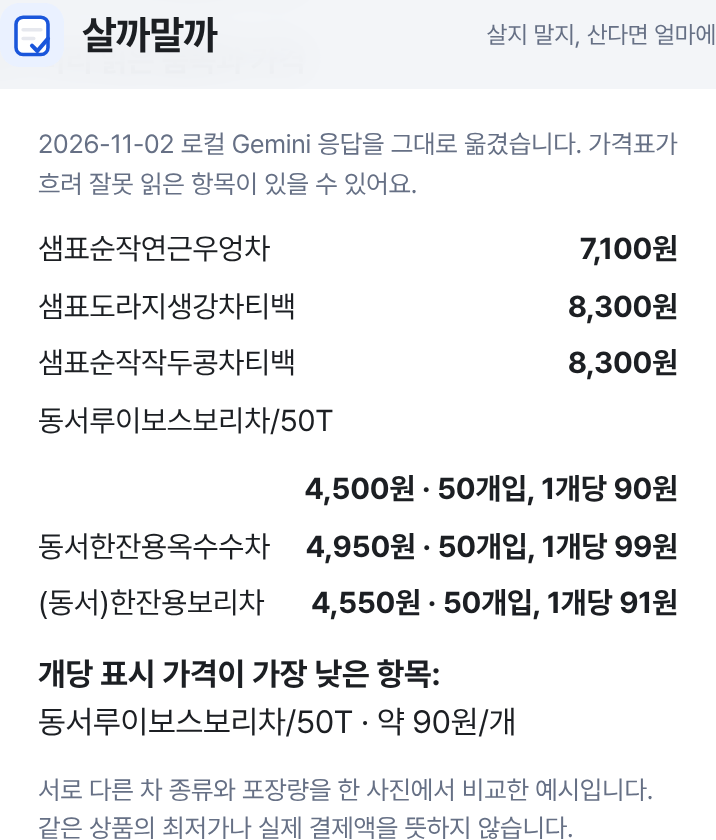
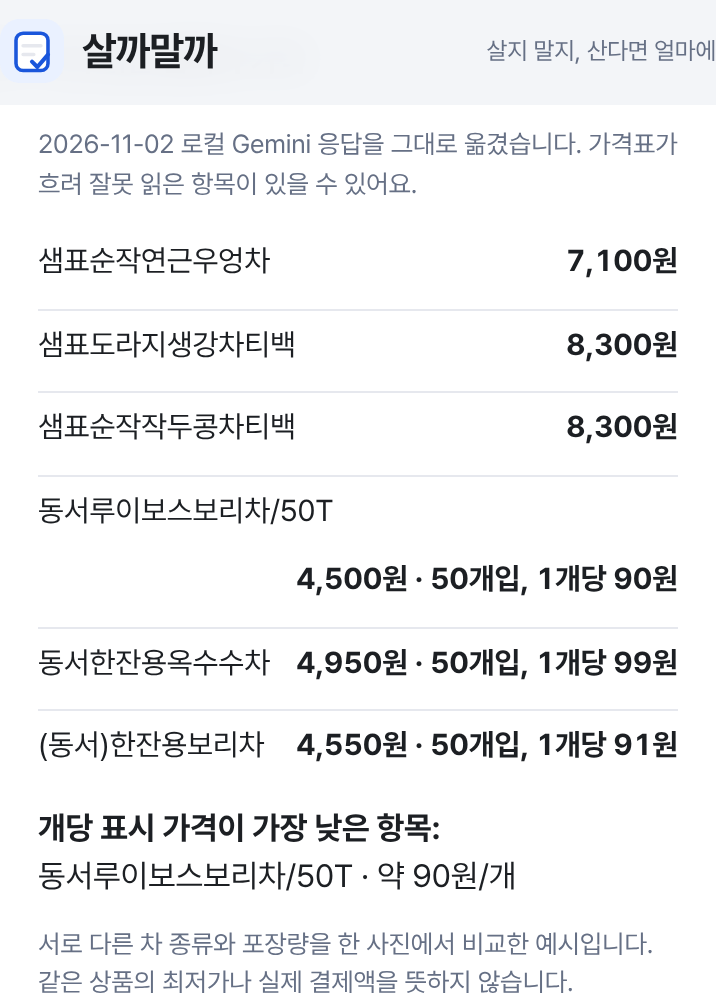
feat: two-column compare inputs, highlighted verdict, clearer item cards
Second design pass; features and copy unchanged.

- Price-compare A/B inputs sit two per row on phones (discount page about
  500px shorter); A and B get blue/orange markers
- Comparison result cards get an accent border and the verdict line a
  tinted block so the answer stands out
- Summary number lists get row dividers and bold tabular numbers
- Item cards: larger price, divider above the decision buttons, compare
  links as chips, calendar buttons one step smaller
- PRD 0.88, TODO 37-6, README photo-demo screens recaptured

Checks: npm test 1994/1994, lint, tsc -b, eval tsc, TODO check

Claude-Session: https://claude.ai/code/session_01S73EWn5NmGABmba2rb4uky

diff --git a/src/index.css b/src/index.css
@@ -1576,3 +1576,167 @@ details[aria-label='자잘한 지출'] {
     scroll-behavior: auto !important;
   }
 }
+
+/* ───────────────────────────────────────────────────────────────
+   2026-11-02 디자인 개선 2차: 입력을 짧게, 결론을 먼저 눈에 띄게
+   ─────────────────────────────────────────────────────────────── */
+
+/* 가격 비교 A·B 입력: 휴대폰에서도 칸을 두 줄로 나란히 놓아 스크롤을 줄인다.
+   제목·안내 문장·사진 버튼처럼 칸이 아닌 것은 한 줄을 다 쓴다 */
+.ab-grid > fieldset.card,
+.ab-grid > form.card {
+  display: grid;
+  grid-template-columns: repeat(2, minmax(0, 1fr));
+  column-gap: 10px;
+  row-gap: 12px;
+  align-items: start;
+}
+
+.ab-grid > fieldset.card > *,
+.ab-grid > form.card > * {
+  grid-column: 1 / -1;
+  min-width: 0;
+}
+
+.ab-grid > fieldset.card > .field,
+.ab-grid > form.card > .field {
+  grid-column: auto;
+}
+
+.ab-grid > fieldset.card > legend {
+  margin-bottom: 0;
+}
+
+.ab-grid .field-hint,
+.ab-grid .field-error {
+  font-size: 12px;
+  line-height: 1.4;
+}
+
+.ab-grid .field-label {
+  font-size: 13px;
+}
+
+/* A안·B안 제목에 작은 표식을 달아 두 카드를 한눈에 구분한다 */
+.ab-grid > fieldset.card > legend.card-title::before,
+.ab-grid > form.card > .card-title:first-child::before {
+  content: '';
+  display: inline-block;
+  width: 8px;
+  height: 8px;
+  margin-right: 8px;
+  border-radius: 999px;
+  background: var(--accent);
+  vertical-align: middle;
+}
+
+.ab-grid > fieldset.card:nth-child(2) > legend.card-title::before,
+.ab-grid > form.card:nth-child(2) > .card-title:first-child::before {
+  background: #f79009;
+}
+
+/* 비교 결과: 결론 한 줄을 강조 바탕의 큰 글씨로. 카드 자체도 강조색 테두리 */
+section.card[aria-label$='비교 결과'] {
+  border: 2px solid var(--accent);
+  box-shadow: var(--shadow-lift);
+}
+
+section.card[aria-label$='비교 결과'] > .card-title {
+  color: var(--accent-ink);
+  font-size: 14px;
+  letter-spacing: 0.02em;
+}
+
+section.card[aria-label$='비교 결과'] > .price-lg {
+  margin: 4px -4px;
+  padding: 14px 16px;
+  border-radius: var(--radius-sm);
+  background: var(--accent-soft);
+  color: var(--accent-ink);
+  font-size: 22px;
+  line-height: 1.35;
+}
+
+/* '이럴 때 써요' 예시: 결론을 말풍선처럼 */
+.example-intro .intro-conclusion {
+  padding: 10px 12px;
+  border-radius: var(--radius-sm);
+  background: var(--accent-soft);
+  font-size: 15px;
+}
+
+.example-intro .intro-side {
+  background: var(--surface-2);
+  border-color: var(--line);
+}
+
+/* 요약 숫자 목록: 이름은 회색, 숫자는 크고 진하게, 줄 사이에 옅은 선 */
+.result-list li {
+  align-items: baseline;
+  padding: 6px 0;
+}
+
+.result-list li + li {
+  border-top: 1px solid var(--line);
+}
+
+.result-list li > :last-child {
+  font-variant-numeric: tabular-nums;
+  font-weight: 700;
+}
+
+/* 물건 카드: 가격을 크게, 결정 영역은 선으로 나눠 '정하는 곳'이 보이게 */
+article.card > .price {
+  font-size: 24px;
+  letter-spacing: -0.02em;
+  margin-top: -4px;
+}
+
+article.card > p.field-label {
+  margin-top: 6px;
+  padding-top: 16px;
+  border-top: 1px solid var(--line);
+}
+
+/* 비교해 볼 곳 링크를 작은 칩으로 */
+.link-list a {
+  display: inline-flex;
+  align-items: center;
+  min-height: 36px;
+  padding: 0 12px;
+  border-radius: 999px;
+  background: var(--surface-2);
+  border: 1px solid var(--line);
+  color: var(--ink-2);
+  font-size: 14px;
+  font-weight: 600;
+  text-decoration: none;
+}
+
+.link-list a:hover {
+  border-color: var(--accent);
+  color: var(--accent);
+}
+
+/* 캘린더 넣기 같은 보조 버튼은 한 단계 작게 */
+article.card [role='group'] .btn-row .btn {
+  min-height: 42px;
+  font-size: 14px;
+}
+
+/* 수정·삭제 같은 글자 버튼은 카드 맨 아래 한 줄에 모은다 */
+.card-actions {
+  margin-top: 0;
+  justify-content: flex-end;
+}
+
+.card-actions .link-btn {
+  text-decoration: none;
+}
+
+/* '오늘의 고민' 상자와 체크리스트: 바탕을 깔아 카드 본문과 구분 */
+.gomin-note {
+  background: var(--surface-2);
+  border-color: var(--line);
+  border-radius: var(--radius-sm);
+}

diff --git a/PRD.md b/PRD.md
@@ -1,9 +1,9 @@
 # 살까말까 PRD
 
-현재 개정: **0.87** · 하단 메뉴·분할 하위 탭·가계부 바로가기 등 배치와 모양 개선, 기능 변경 없음 (2026-11-02) · 0.86 · 문서 정정만: 공개 사이트의 AI 표시 문장을 F83에 맞추고 화면 전후 사진을 같은 조건으로 다시 찍음, 기능 변경 없음 (2026-11-02) · 0.85 · 가계부 달력 우선 배치와 저장되지 않는 예시, 공개 사진 시연 (2026-11-02)
+현재 개정: **0.88** · 가격 비교 입력 2열·결과 강조·물건 카드 구역 구분, 기능 변경 없음 (2026-11-02) · 0.87 · 하단 메뉴·분할 하위 탭·가계부 바로가기 등 배치와 모양 개선, 기능 변경 없음 (2026-11-02) · 0.86 · 문서 정정만: 공개 사이트의 AI 표시 문장을 F83에 맞추고 화면 전후 사진을 같은 조건으로 다시 찍음, 기능 변경 없음 (2026-11-02) · 0.85 · 가계부 달력 우선 배치와 저장되지 않는 예시, 공개 사진 시연 (2026-11-02)
 
 작성일: 2026-10-11  
-버전: 0.87 · 1장 디자인 방향에 하단 메뉴·분할 하위 탭·가계부 바로가기와 카드·입력 모양을 추가, 기능·문구 변경 없음(2026-11-02 제작자 요청) · 0.86 · 문서 정정만: 4장의 공개 사이트 AI 문장을 F83의 저장된 예시와 맞추고 화면 전후 사진의 촬영 조건을 적음, 기능 변경 없음(2026-11-02) · 0.85 · 가계부 달력 우선 배치와 저장되지 않는 예시, 공개 사진 시연(2026-11-02) · 0.83 · 고정비·모으기 화면 순서와 기본 접힘, 지원 제도 안내 및 발표 전후 비교를 보강(2026-11-02 제작자 요청) · 0.82 · 1차 이후 비AI 기능을 분야별로 대조하고 AI 재검증 기록을 연결(2026-11-02 제작자 요청) · 0.81 · 1차 이후 추가·수정 요구사항 표시와 화면 전후 비교(2026-11-02 제작자 요청) · 0.80 · 가격 비교·사진 첫 화면과 장보기·사기 전 입력 동선 보강(F31·F49·F75·F76·F79·F81, AC195~AC202; 2026-11-02 제작자 UX 요청) · 0.78 · 9장 자동 테스트 수를 AC01~AC194·1983개로 정정(2026-11-02, 28단계 보강 뒤) · 0.77 · 자잘한 지출에서 한 주 시도 선택·저장·완료 보강(F78, AC192~AC194; 2026-11-02 최종 점검) · 0.76 · 9장 자동 테스트 수를 AC01~AC191·1979개로 정정(2026-11-02, 25~27단계 구현 뒤) · 0.75 · 정기배송 결제일과 7일 비교 기간의 화면 문구를 명확히 함(2026-11-02 구현 뒤 점검) · 0.74 · 이번 주 집밥·정기배송 중복·작은 지출 시도·사기 전 요약·결제 전 확인·상황별 시작(F76~F81, AC180~AC191; 2026-11-02 제작자 “전부다 수행해보자”) · 0.73 · 9장 자동 테스트 수 정정: AC01~AC171·1952개 → AC01~AC179·1965개(2026-11-02, 결제 달력·장보기 초안 구현 뒤) · 0.72 · 30일 결제 달력·장보기 초안(F74~F75, AC172~AC179; 2026-11-02 제작자 "두개다 ㅅ", 세부는 9장 확인 전) · 0.71 · 9장 자동 테스트 수 정정: AC01~AC162·1938개 → AC01~AC171·1952개(2026-11-02, 사용 흐름 개선 구현 뒤) · 0.70 · F73 빠른 담기에 맞춰 첫 화면 설명을 짧게 고침(AC79, 2026-11-02 제작자 입력 부담 피드백) · 0.69 · F73 빠른 담기에서 F31 사진 초안의 이유 필수 안내와 AC54 기대를 선택 입력에 맞춤(2026-11-02, 23-4 구현 중) · 0.68 · 오늘 확인할 것·빠른 물건 담기(F72~F73, F01·F24·F30 보강, AC163~AC171; 2026-11-02 제작자 추가 기능 방향 동의, 세부는 9장 확인 전) · 0.67 · 9장 자동 테스트 수 정정: AC01~AC150·1917개 → AC01~AC162·1938개(2026-11-02, 절약·저축 4단계와 백업 화면 시험 뒤) · 0.66 · 1장 디자인 방향에 제작자 화면 피드백과 공통 그림·접힘 표시 반영(2026-11-02) · 0.65 · F71 친구 정산 화면·오류 문장 명시(2026-11-02, 4단계 Task 5, 9장 제작자 확인 대기) · 0.64 · F70 포인트·쿠폰 입력·오류 문장 명시(2026-11-02, 4단계 Task 4, 9장 제작자 확인 대기) · 0.63 · F69 카드 실적 입력·오류 문장과 해당 월 범위 명시(2026-11-02, 4단계 Task 3, 9장 제작자 확인 대기) · 0.62 · F68 공식 안내와 저장 상태의 화면 문장을 명시(2026-11-02, 4단계 Task 2, 9장 제작자 확인 대기) · 0.61 · 절약·저축 4단계 받을 수 있는 돈(F68~F71·F20 보강, AC151~AC162; 2026-11-02 설계 P4·제작자 요청, 새 결정은 9장 제작자 확인 전) · 0.60 · 9장 자동 테스트 수 정정: AC01~AC132·1880개 → AC01~AC150·1917개(2026-11-02, 절약·저축 3단계와 담기 화면 개선 뒤) · 0.59 · 담기 폼 접기·쓰는 곳 후보 펼치기(F24·F45·F51, AC149~AC150; 2026-11-02 제작자 화면 요청) · 0.58 · 0.57 버전 줄의 출처 문장을 9장 결정 목록 참조로 바로잡음(2026-11-01) · 0.57 · F66·F67 모으기 별도 금액 안내 문장 명시(2026-11-01, 3단계 Task 7 준비, 9장 제작자 확인 대기) · 0.56 · 절약·저축 3단계 사기 전·산 뒤(F61~F67, F20 보강, AC133~AC148; 2026-11-01 제작자 요청·설계 P3, 새 결정은 9장 제작자 확인 전) · 0.55 · 9장 자동 테스트 수 정정: AC01~AC116·1833개 → AC01~AC132·1880개(2026-11-01, 절약·저축 2단계 구현·전체 리뷰 뒤) · 0.54 · F60 배달 비교 화면 문장·최소 주문 미달 때 무료배달 비교 숨김 명시(2026-11-01, 2단계 Task 8, Claude 결정·제작자 확인 전) · 0.53 · F59 자잘한 지출 화면·저장 안내 문장 명시(2026-11-01, 2단계 Task 7 준비, Claude 결정·제작자 확인 전) · 0.52 · F58 있어서 안 산 성공 안내와 모으기 설명 명시(2026-11-01, 2단계 Task 6 준비, Claude 결정·제작자 확인 전) · 0.51 · F57 모으기의 대체 금액 문장과 빈 상태 기준 명시(2026-11-01, 2단계 Task 5 준비, Claude 결정·제작자 확인 전) · 0.50 · F54 화면·저장 안내 문장 명시(2026-11-01, 2단계 Task 2 준비, Claude 결정·제작자 확인 전) · 0.49 · 절약·저축 P2 집에 있는 것·자잘한 지출(F54~F60, F20 보강, AC117~AC132; 2026-11-01 제작자 요청과 설계 P2, 새 결정은 9장 제작자 확인 전) · 0.48 · 9장 최종 완성 기준 자동 테스트 수 정정: AC01~AC99·1741개 → AC01~AC116·1833개(2026-11-01, 절약·저축 1b 구현 뒤 전체 테스트) · 0.47 · F52 통신 비교 링크에서 스마트초이스를 제외함(2026-11-01, 20초 재확인에도 이 환경에서 접속하지 못함) · 0.46 · 절약·저축 1b: 요금 바뀜 기록(F50, 내가 낮춘 요금은 모으기의 줄어든 고정비에)·같은 곳에 쓰는 구독·멤버십(F51)·통신 약정과 요금 비교 링크(F52)·수도·가스·전기 요금(F53, 새 키 `buyornot.bills.v1`)·정기배송 주마다와 고정비 저장 안내 이름(F45 보강)·무료 체험 끝나기 전날 캘린더(F46 보강)·해지한 날과 요금 바뀐 날(F47 보강)·백업 v2에 공과금(F20 보강), AC100~AC116, AC84 기대 문장(2026-11-01, 설계 문서 P1b와 총괄 판정 R45·R46·R47을 따름. 새 동작은 모두 9장 '절약·저축 1b에서 정한 것'에 제작자 확인 전으로 있음) · 0.45 · 9장 최종 완성 기준의 자동 테스트 수 정정: AC01~AC80·1551개 → AC01~AC99·1741개, 9장 정하지 못한 것에 고정비 종류를 바꿀 때의 안내 질문 한 줄(2026-11-01, 절약·저축 1a 최종 검토 뒤) · 0.44 · 절약·저축 1a: 고정비 정리함(F45, 구독 탭을 넓힘)·무료 체험 끝나는 날(F46)·해지했어요(F47)·모으기(F48, 줄어든 고정비·참은 구매·옮긴 돈을 따로, 저축 목표)·주요 메뉴 다섯 개(F49)·백업 v2(F20 보강), AC81~AC99(2026-11-01, 설계 문서·GPT 53번 상담·빌더 점검 뒤 총괄 판정을 따름. 새 동작은 모두 9장 '절약·저축 1a에서 정한 것'에 제작자 확인 전으로 있음) · 0.43 · F44 캡처 크게 보기(R29-N1) 이유에 10/31 정정을 덧붙임: 근거로 적은 평가 A H1은 남아 있던 모의 응답이었다(2026-10-31, 평가 C) · 0.42 · F24 완료 기준에 AC80 연결(2026-10-31, 개발 2회차 최종 재검토) · 0.41 · 9장 최종 완성 기준의 자동 테스트 수 정정: AC01~AC79·1544개 → AC01~AC80·1551개(2026-10-31, 개발 2회차 전체 리뷰 뒤) · 0.40 · 담은 물건을 바로 결정하거나 지우면 담은 직후 안내와 '방금 담았어요.'도 사라짐(F24, 판정 R43, AC80, 2026-10-31 개발 2회차 전체 리뷰, Claude 결정·제작자 확인 전) · 0.39 · 9장 최종 완성 기준의 자동 테스트 수 정정: AC01~AC68·1465개 → AC01~AC79·1544개(2026-10-31, 평가 B P10, 판정 R38) · 0.38 · 평가 2회차(평가 B) 개선: Gemini가 429를 주면 `429 upstream_limited`와 새 실패 문구, 키가 없거나 비면 Gemini를 부르지 않고 `503 disabled`(10장 AI 공통·F43, 판정 R38-P6), F32 확인 상자 첫 줄 'AI가 읽은 내용'과 F32·F44 확인 상자 첫 줄을 상자 설명으로(R38-I8·R38-P9), 구매함으로 옮긴 직후 회고 안내 한 줄(F18, R38-N3), 빈 목록일 때 서비스 설명 문장을 담기 폼 위로(F24, R38-I3), AC60 기대값, AC75~AC79(2026-10-31, 평가 B, GPT 51번, Claude 결정, 제작자 확인 전) · 0.37 · F44 치수 읽기 문구(R29-I1)의 이유에 정정: 평가 때 본 사진에 없는 치수는 남아 있던 모의 응답이었음(2026-10-31, 평가 B 뒤 확인) · 0.36 · 다른 탭 때문에 담기가 반영되지 않으면 담은 직후 안내를 띄우지 않고 입력을 그대로 둠(F24, 판정 R30), 8장 기술 문장의 '서버를 쓰지 않음' 정정(2026-10-31, 개발 1회차 준비, Claude 결정·제작자 확인 전) · 0.35 · 평가 1회차 고칠 것: 9장 남은 결정을 한 줄씩 목록으로 바꾸고 빠진 결정을 채움(P5), 사진 초안 링크 비우기(F31, 판정 R29-P2), 담은 직후 새 카드로(F24, R29-P3), 치수 읽기 'AI가 읽은 내용'(F44, R29-I1)·캡처 크게 보기(F44, R29-N1), 결과 화면 문구(F31·F32·F06, R29-I2), AC69~AC74, 9장 테스트 수·AC63 시험용 값 정정(2026-10-31, 평가 1회차 결정, GPT 50번, Claude 결정·제작자 확인 전) · 0.34: Gemini 출력 길이 상한(가격표 6144·나머지 4096)과 치수를 글자로 받기(판정 R25~R27, 2026-10-31, GPT 49번, Claude 결정·제작자 확인 전) · 0.33: F44 2단계 표기 세부(모르는 축 '모름', 상태 이름 위치, 판정 R23, 2026-10-30, Claude 결정·제작자 확인 전) · 0.32: AC65 '다른 탭에서 결정된 뒤 저장'을 기존 여러 탭 규칙(AC37-2)과 맞춤(판정 R22, 2026-10-30, Claude 결정·제작자 확인 전) · 0.31: F43 '더 읽음' 문장의 조사를 AC63 예와 맞춤({상품을|표기를}, 2026-10-30 구현 중) · 0.30: F31 상품명이 비면 온라인 확인을 막고 "상품명을 적어 주세요"·상품명 칸 80자 상한(최종 리뷰, 2026-10-30, Claude 결정·제작자 확인 전) · 0.29: F43 채점 세부(단가 가격표 정답·최저가가 같은 허용 줄·모양이 다른 응답, 판정 R14·R15, 2026-10-30, Claude 결정·제작자 확인 전) · 0.28: F33 녹음 형식이 비면 보내지 않음(R11)·받아쓰는 중 메뉴 이동은 계속(R12)·담아 두면 녹음·받아쓰기를 끊음(R13)(2026-10-30, Claude 결정·제작자 확인 전) · 0.27: F33 받아쓴 말이 비면 첫 안내 줄을 뺌(판정 R10)·'을/를 채웠어요'(2026-10-30, Claude 결정·제작자 확인 전) · 0.26: 구현 중 정한 것 반영: 사진 고르기에 capture 없음, F31 진행 문구·결과 제목, F32 상품 0개 문장·단위를 고른 뒤 채울 값 다시 보이기·'개'를 고르면 계산용 개수 비움(2026-10-30, 판정 R7~R9, Claude 결정·제작자 확인 전) · 0.25: 앱 사진 대기 상한 45초 → 60초(요청 하나마다, 서버 55초 + 5초, 2026-10-30, GPT 45번, Claude 결정·제작자 확인 전) · 0.24: 1단계 이어서 F43 AI 성적표·F44 놓을 자리 확인(2026-10-29, GPT 37~41번 상담 반영) · 0.23: 중간 과제 AI 기능 1단계 명세(F31~F33·F35, 2026-10-28, GPT 33~36번 상담 반영) · 0.22까지: 4차 추가(고민 노트) + 다듬기 + 구독 이용 분석 1단계(넷플릭스 시청 기록 파일) + 카드·담기 폼 체크리스트 + 회고를 비슷한 기록에 연결 + 오늘의 고민으로 이동 + 묶음 비교에 한 달에 쓰는 양, 무료배송 탭 뺌(10/13)
+버전: 0.88 · 1장 디자인 방향에 비교 입력 2열·결과 강조·물건 카드 구분선 추가, 기능·문구 변경 없음(2026-11-02 제작자 "좀 더 개선") · 0.87 · 1장 디자인 방향에 하단 메뉴·분할 하위 탭·가계부 바로가기와 카드·입력 모양을 추가, 기능·문구 변경 없음(2026-11-02 제작자 요청) · 0.86 · 문서 정정만: 4장의 공개 사이트 AI 문장을 F83의 저장된 예시와 맞추고 화면 전후 사진의 촬영 조건을 적음, 기능 변경 없음(2026-11-02) · 0.85 · 가계부 달력 우선 배치와 저장되지 않는 예시, 공개 사진 시연(2026-11-02) · 0.83 · 고정비·모으기 화면 순서와 기본 접힘, 지원 제도 안내 및 발표 전후 비교를 보강(2026-11-02 제작자 요청) · 0.82 · 1차 이후 비AI 기능을 분야별로 대조하고 AI 재검증 기록을 연결(2026-11-02 제작자 요청) · 0.81 · 1차 이후 추가·수정 요구사항 표시와 화면 전후 비교(2026-11-02 제작자 요청) · 0.80 · 가격 비교·사진 첫 화면과 장보기·사기 전 입력 동선 보강(F31·F49·F75·F76·F79·F81, AC195~AC202; 2026-11-02 제작자 UX 요청) · 0.78 · 9장 자동 테스트 수를 AC01~AC194·1983개로 정정(2026-11-02, 28단계 보강 뒤) · 0.77 · 자잘한 지출에서 한 주 시도 선택·저장·완료 보강(F78, AC192~AC194; 2026-11-02 최종 점검) · 0.76 · 9장 자동 테스트 수를 AC01~AC191·1979개로 정정(2026-11-02, 25~27단계 구현 뒤) · 0.75 · 정기배송 결제일과 7일 비교 기간의 화면 문구를 명확히 함(2026-11-02 구현 뒤 점검) · 0.74 · 이번 주 집밥·정기배송 중복·작은 지출 시도·사기 전 요약·결제 전 확인·상황별 시작(F76~F81, AC180~AC191; 2026-11-02 제작자 “전부다 수행해보자”) · 0.73 · 9장 자동 테스트 수 정정: AC01~AC171·1952개 → AC01~AC179·1965개(2026-11-02, 결제 달력·장보기 초안 구현 뒤) · 0.72 · 30일 결제 달력·장보기 초안(F74~F75, AC172~AC179; 2026-11-02 제작자 "두개다 ㅅ", 세부는 9장 확인 전) · 0.71 · 9장 자동 테스트 수 정정: AC01~AC162·1938개 → AC01~AC171·1952개(2026-11-02, 사용 흐름 개선 구현 뒤) · 0.70 · F73 빠른 담기에 맞춰 첫 화면 설명을 짧게 고침(AC79, 2026-11-02 제작자 입력 부담 피드백) · 0.69 · F73 빠른 담기에서 F31 사진 초안의 이유 필수 안내와 AC54 기대를 선택 입력에 맞춤(2026-11-02, 23-4 구현 중) · 0.68 · 오늘 확인할 것·빠른 물건 담기(F72~F73, F01·F24·F30 보강, AC163~AC171; 2026-11-02 제작자 추가 기능 방향 동의, 세부는 9장 확인 전) · 0.67 · 9장 자동 테스트 수 정정: AC01~AC150·1917개 → AC01~AC162·1938개(2026-11-02, 절약·저축 4단계와 백업 화면 시험 뒤) · 0.66 · 1장 디자인 방향에 제작자 화면 피드백과 공통 그림·접힘 표시 반영(2026-11-02) · 0.65 · F71 친구 정산 화면·오류 문장 명시(2026-11-02, 4단계 Task 5, 9장 제작자 확인 대기) · 0.64 · F70 포인트·쿠폰 입력·오류 문장 명시(2026-11-02, 4단계 Task 4, 9장 제작자 확인 대기) · 0.63 · F69 카드 실적 입력·오류 문장과 해당 월 범위 명시(2026-11-02, 4단계 Task 3, 9장 제작자 확인 대기) · 0.62 · F68 공식 안내와 저장 상태의 화면 문장을 명시(2026-11-02, 4단계 Task 2, 9장 제작자 확인 대기) · 0.61 · 절약·저축 4단계 받을 수 있는 돈(F68~F71·F20 보강, AC151~AC162; 2026-11-02 설계 P4·제작자 요청, 새 결정은 9장 제작자 확인 전) · 0.60 · 9장 자동 테스트 수 정정: AC01~AC132·1880개 → AC01~AC150·1917개(2026-11-02, 절약·저축 3단계와 담기 화면 개선 뒤) · 0.59 · 담기 폼 접기·쓰는 곳 후보 펼치기(F24·F45·F51, AC149~AC150; 2026-11-02 제작자 화면 요청) · 0.58 · 0.57 버전 줄의 출처 문장을 9장 결정 목록 참조로 바로잡음(2026-11-01) · 0.57 · F66·F67 모으기 별도 금액 안내 문장 명시(2026-11-01, 3단계 Task 7 준비, 9장 제작자 확인 대기) · 0.56 · 절약·저축 3단계 사기 전·산 뒤(F61~F67, F20 보강, AC133~AC148; 2026-11-01 제작자 요청·설계 P3, 새 결정은 9장 제작자 확인 전) · 0.55 · 9장 자동 테스트 수 정정: AC01~AC116·1833개 → AC01~AC132·1880개(2026-11-01, 절약·저축 2단계 구현·전체 리뷰 뒤) · 0.54 · F60 배달 비교 화면 문장·최소 주문 미달 때 무료배달 비교 숨김 명시(2026-11-01, 2단계 Task 8, Claude 결정·제작자 확인 전) · 0.53 · F59 자잘한 지출 화면·저장 안내 문장 명시(2026-11-01, 2단계 Task 7 준비, Claude 결정·제작자 확인 전) · 0.52 · F58 있어서 안 산 성공 안내와 모으기 설명 명시(2026-11-01, 2단계 Task 6 준비, Claude 결정·제작자 확인 전) · 0.51 · F57 모으기의 대체 금액 문장과 빈 상태 기준 명시(2026-11-01, 2단계 Task 5 준비, Claude 결정·제작자 확인 전) · 0.50 · F54 화면·저장 안내 문장 명시(2026-11-01, 2단계 Task 2 준비, Claude 결정·제작자 확인 전) · 0.49 · 절약·저축 P2 집에 있는 것·자잘한 지출(F54~F60, F20 보강, AC117~AC132; 2026-11-01 제작자 요청과 설계 P2, 새 결정은 9장 제작자 확인 전) · 0.48 · 9장 최종 완성 기준 자동 테스트 수 정정: AC01~AC99·1741개 → AC01~AC116·1833개(2026-11-01, 절약·저축 1b 구현 뒤 전체 테스트) · 0.47 · F52 통신 비교 링크에서 스마트초이스를 제외함(2026-11-01, 20초 재확인에도 이 환경에서 접속하지 못함) · 0.46 · 절약·저축 1b: 요금 바뀜 기록(F50, 내가 낮춘 요금은 모으기의 줄어든 고정비에)·같은 곳에 쓰는 구독·멤버십(F51)·통신 약정과 요금 비교 링크(F52)·수도·가스·전기 요금(F53, 새 키 `buyornot.bills.v1`)·정기배송 주마다와 고정비 저장 안내 이름(F45 보강)·무료 체험 끝나기 전날 캘린더(F46 보강)·해지한 날과 요금 바뀐 날(F47 보강)·백업 v2에 공과금(F20 보강), AC100~AC116, AC84 기대 문장(2026-11-01, 설계 문서 P1b와 총괄 판정 R45·R46·R47을 따름. 새 동작은 모두 9장 '절약·저축 1b에서 정한 것'에 제작자 확인 전으로 있음) · 0.45 · 9장 최종 완성 기준의 자동 테스트 수 정정: AC01~AC80·1551개 → AC01~AC99·1741개, 9장 정하지 못한 것에 고정비 종류를 바꿀 때의 안내 질문 한 줄(2026-11-01, 절약·저축 1a 최종 검토 뒤) · 0.44 · 절약·저축 1a: 고정비 정리함(F45, 구독 탭을 넓힘)·무료 체험 끝나는 날(F46)·해지했어요(F47)·모으기(F48, 줄어든 고정비·참은 구매·옮긴 돈을 따로, 저축 목표)·주요 메뉴 다섯 개(F49)·백업 v2(F20 보강), AC81~AC99(2026-11-01, 설계 문서·GPT 53번 상담·빌더 점검 뒤 총괄 판정을 따름. 새 동작은 모두 9장 '절약·저축 1a에서 정한 것'에 제작자 확인 전으로 있음) · 0.43 · F44 캡처 크게 보기(R29-N1) 이유에 10/31 정정을 덧붙임: 근거로 적은 평가 A H1은 남아 있던 모의 응답이었다(2026-10-31, 평가 C) · 0.42 · F24 완료 기준에 AC80 연결(2026-10-31, 개발 2회차 최종 재검토) · 0.41 · 9장 최종 완성 기준의 자동 테스트 수 정정: AC01~AC79·1544개 → AC01~AC80·1551개(2026-10-31, 개발 2회차 전체 리뷰 뒤) · 0.40 · 담은 물건을 바로 결정하거나 지우면 담은 직후 안내와 '방금 담았어요.'도 사라짐(F24, 판정 R43, AC80, 2026-10-31 개발 2회차 전체 리뷰, Claude 결정·제작자 확인 전) · 0.39 · 9장 최종 완성 기준의 자동 테스트 수 정정: AC01~AC68·1465개 → AC01~AC79·1544개(2026-10-31, 평가 B P10, 판정 R38) · 0.38 · 평가 2회차(평가 B) 개선: Gemini가 429를 주면 `429 upstream_limited`와 새 실패 문구, 키가 없거나 비면 Gemini를 부르지 않고 `503 disabled`(10장 AI 공통·F43, 판정 R38-P6), F32 확인 상자 첫 줄 'AI가 읽은 내용'과 F32·F44 확인 상자 첫 줄을 상자 설명으로(R38-I8·R38-P9), 구매함으로 옮긴 직후 회고 안내 한 줄(F18, R38-N3), 빈 목록일 때 서비스 설명 문장을 담기 폼 위로(F24, R38-I3), AC60 기대값, AC75~AC79(2026-10-31, 평가 B, GPT 51번, Claude 결정, 제작자 확인 전) · 0.37 · F44 치수 읽기 문구(R29-I1)의 이유에 정정: 평가 때 본 사진에 없는 치수는 남아 있던 모의 응답이었음(2026-10-31, 평가 B 뒤 확인) · 0.36 · 다른 탭 때문에 담기가 반영되지 않으면 담은 직후 안내를 띄우지 않고 입력을 그대로 둠(F24, 판정 R30), 8장 기술 문장의 '서버를 쓰지 않음' 정정(2026-10-31, 개발 1회차 준비, Claude 결정·제작자 확인 전) · 0.35 · 평가 1회차 고칠 것: 9장 남은 결정을 한 줄씩 목록으로 바꾸고 빠진 결정을 채움(P5), 사진 초안 링크 비우기(F31, 판정 R29-P2), 담은 직후 새 카드로(F24, R29-P3), 치수 읽기 'AI가 읽은 내용'(F44, R29-I1)·캡처 크게 보기(F44, R29-N1), 결과 화면 문구(F31·F32·F06, R29-I2), AC69~AC74, 9장 테스트 수·AC63 시험용 값 정정(2026-10-31, 평가 1회차 결정, GPT 50번, Claude 결정·제작자 확인 전) · 0.34: Gemini 출력 길이 상한(가격표 6144·나머지 4096)과 치수를 글자로 받기(판정 R25~R27, 2026-10-31, GPT 49번, Claude 결정·제작자 확인 전) · 0.33: F44 2단계 표기 세부(모르는 축 '모름', 상태 이름 위치, 판정 R23, 2026-10-30, Claude 결정·제작자 확인 전) · 0.32: AC65 '다른 탭에서 결정된 뒤 저장'을 기존 여러 탭 규칙(AC37-2)과 맞춤(판정 R22, 2026-10-30, Claude 결정·제작자 확인 전) · 0.31: F43 '더 읽음' 문장의 조사를 AC63 예와 맞춤({상품을|표기를}, 2026-10-30 구현 중) · 0.30: F31 상품명이 비면 온라인 확인을 막고 "상품명을 적어 주세요"·상품명 칸 80자 상한(최종 리뷰, 2026-10-30, Claude 결정·제작자 확인 전) · 0.29: F43 채점 세부(단가 가격표 정답·최저가가 같은 허용 줄·모양이 다른 응답, 판정 R14·R15, 2026-10-30, Claude 결정·제작자 확인 전) · 0.28: F33 녹음 형식이 비면 보내지 않음(R11)·받아쓰는 중 메뉴 이동은 계속(R12)·담아 두면 녹음·받아쓰기를 끊음(R13)(2026-10-30, Claude 결정·제작자 확인 전) · 0.27: F33 받아쓴 말이 비면 첫 안내 줄을 뺌(판정 R10)·'을/를 채웠어요'(2026-10-30, Claude 결정·제작자 확인 전) · 0.26: 구현 중 정한 것 반영: 사진 고르기에 capture 없음, F31 진행 문구·결과 제목, F32 상품 0개 문장·단위를 고른 뒤 채울 값 다시 보이기·'개'를 고르면 계산용 개수 비움(2026-10-30, 판정 R7~R9, Claude 결정·제작자 확인 전) · 0.25: 앱 사진 대기 상한 45초 → 60초(요청 하나마다, 서버 55초 + 5초, 2026-10-30, GPT 45번, Claude 결정·제작자 확인 전) · 0.24: 1단계 이어서 F43 AI 성적표·F44 놓을 자리 확인(2026-10-29, GPT 37~41번 상담 반영) · 0.23: 중간 과제 AI 기능 1단계 명세(F31~F33·F35, 2026-10-28, GPT 33~36번 상담 반영) · 0.22까지: 4차 추가(고민 노트) + 다듬기 + 구독 이용 분석 1단계(넷플릭스 시청 기록 파일) + 카드·담기 폼 체크리스트 + 회고를 비슷한 기록에 연결 + 오늘의 고민으로 이동 + 묶음 비교에 한 달에 쓰는 양, 무료배송 탭 뺌(10/13)
 제작자: 강승준  
 완성 목표일: 2026-10-17 (1주 이내)  
 중간 과제(인공지능 프로그래밍) 마감: 미정 (제작자 확인 필요)  
@@ -146,7 +146,7 @@
 
 2026-11-02 제작자 화면 피드백: 글과 구분된 상자가 많고 장식·일관성이 부족하다. 물건·고정비 담기 폼을 접어 첫 화면을 짧게 하고(F24·F45), 쓰는 곳 후보는 눌러 펼친다(F51). 두 빈 상태에는 같은 색·선의 작은 그림, 사이트 제목에는 같은 그림 체계의 표식을 둔다. 주요 접이식 카드의 펼침 표시는 담기 폼과 같은 모양으로 맞춘다. 입력·버튼의 이름과 저장 의미는 유지한다.
 
-2026-11-02 제작자 요청 "기능은 유지하고 디자인과 배치를 바꿔 보기 좋고 쓰기 편하게": 기능·문구·화면 순서는 바꾸지 않고 다음만 바꾼다. 화면 폭 768px 미만에서는 주요 메뉴 다섯 개를 **화면 아래에 고정**하고 글자 이름 옆에 장식 아이콘(낭독기에는 읽히지 않음)을 둔다. 768px 이상에서는 위쪽에 둔다. 가격 비교의 하위 탭은 줄이 깨지지 않게 분할 버튼(좁은 화면 2×2)으로 보인다. 머리글은 위에 붙는다. 가계부 제목 아래에 결제 달력·수입·지출·고정비 목록·공과금·자잘한 지출로 바로 가는 버튼 줄을 둔다(스크롤만 옮기며 내용을 숨기지 않는다). 카드는 선 대신 옅은 그림자, 입력·버튼은 높이 46~50px과 같은 모서리로 맞춘다. 누르는 칸 44px 이상과 포커스 표시는 유지한다
+2026-11-02 제작자 요청 "기능은 유지하고 디자인과 배치를 바꿔 보기 좋고 쓰기 편하게": 기능·문구·화면 순서는 바꾸지 않고 다음만 바꾼다. 화면 폭 768px 미만에서는 주요 메뉴 다섯 개를 **화면 아래에 고정**하고 글자 이름 옆에 장식 아이콘(낭독기에는 읽히지 않음)을 둔다. 768px 이상에서는 위쪽에 둔다. 가격 비교의 하위 탭은 줄이 깨지지 않게 분할 버튼(좁은 화면 2×2)으로 보인다. 머리글은 위에 붙는다. 가계부 제목 아래에 결제 달력·수입·지출·고정비 목록·공과금·자잘한 지출로 바로 가는 버튼 줄을 둔다(스크롤만 옮기며 내용을 숨기지 않는다). 카드는 선 대신 옅은 그림자, 입력·버튼은 높이 46~50px과 같은 모서리로 맞춘다. 가격 비교 A·B 입력칸은 휴대폰에서도 두 칸씩 나란히 놓아 결과까지의 스크롤을 줄이고, 비교 결과 카드는 강조색 테두리와 결론 한 줄의 강조 바탕으로 먼저 눈에 띄게 한다. 물건 카드는 가격을 크게, 결정 버튼 위에 구분선을 둔다. 누르는 칸 44px 이상과 포커스 표시는 유지한다
 
 ## 2. 문제와 목표
 

diff --git a/TODO.md b/TODO.md
@@ -1,6 +1,6 @@
 # 살까말까 개발 Todo
 
-기준: [PRD v0.87](./PRD.md)
+기준: [PRD v0.88](./PRD.md)
 제작자: 강승준  
 목표일: 2026-10-17  
 상태: 1차 실습 제출본(v1)은 2026-10-13 완료. 중간 과제 작업본은 14~35단계 구현·자동 검사 완료(`saving`·`main` 브랜치, GitHub Pages 배포 완료). 36단계는 제출용 README 사진·문서 대조, 37단계는 기능을 유지한 디자인·배치 개선. 13-4~13-7 구독 분석과 제작자 판정·실기기 확인·AI 서버 배포는 남아 있음.
@@ -733,6 +733,7 @@
 - [x] **37-2** 하위 탭 분할 버튼, 머리글 고정, 카드·입력·버튼·라디오·접기 줄 모양 통일, '오늘 확인할 것' 빈 상태의 제목·설명 겹침 수정
 - [x] **37-3** 가계부 안 바로가기 버튼 줄(`src/ui/JumpNav.tsx`)과 공과금 카드 `id`
 - [x] **37-4** 전체 자동 테스트·린트·타입 검사, 390px·1024px 브라우저 화면 확인, README 비교 사진 다시 찍기
+- [x] **37-6** 2차(제작자 "좀 더 개선"): 가격 비교 A·B 입력칸을 휴대폰에서도 두 줄로 나란히(할인 비교 화면 약 500px 짧아짐), A·B 표식 색 구분, 비교 결과 카드 강조 테두리와 결론 강조 바탕, 요약 숫자 줄 구분, 물건 카드 가격 크게·결정 영역 구분선·비교 링크 칩·보조 버튼 한 단계 작게
 - [ ] **37-5** 제작자 화면·실기기 확인 뒤 `main` 반영 여부 결정
 
 ## 추가 제안
